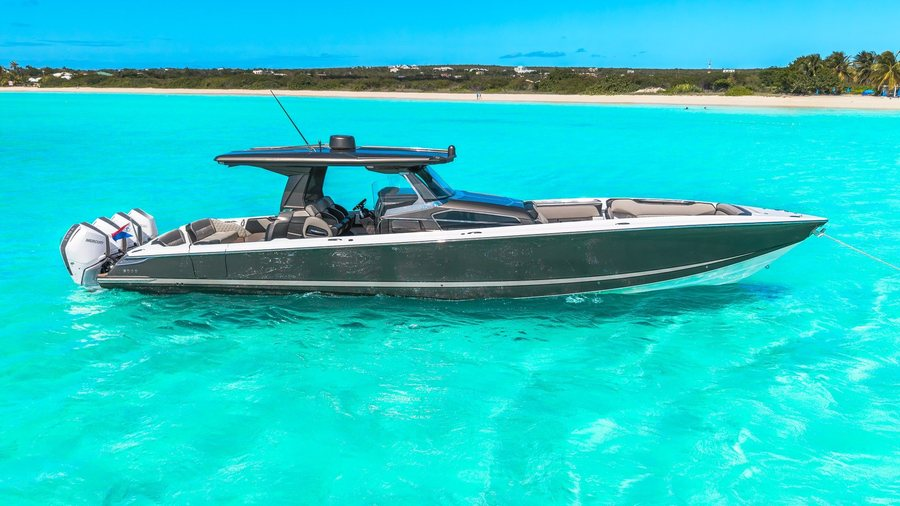
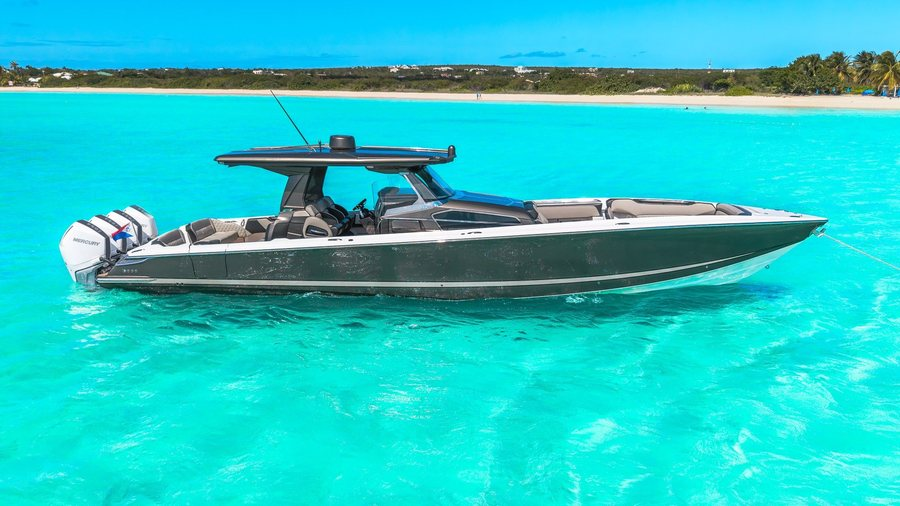
Photo: straighten engines on aerial beach shot
Claude-Session: https://claude.ai/code/session_01N21G8XvmqeBzuPMLBHiHf8

Changed region(s): [[0.0622, 0.3854, 0.1867, 0.5929]]

diff --git a/public/index.html b/public/index.html
@@ -701,7 +701,7 @@ footer .small{grid-column:1/-1;border-top:1px solid var(--hull-line);padding-top
 <!-- HOME -->
 <div class="view" data-view="home">
   <div class="hero">
-    <img src="img/hero-true.jpg?v=1793680478" alt="Nor-Tech 450 Sport SARE" fetchpriority="high">
+    <img src="img/hero-true.jpg?v=1793680702" alt="Nor-Tech 450 Sport SARE" fetchpriority="high">
     <div class="wrap inner">
       <div class="eyebrow hero-eb" data-t="home.eyebrow"></div>
       <h1 class="tag" data-t="home.tagline"></h1>
@@ -717,13 +717,13 @@ footer .small{grid-column:1/-1;border-top:1px solid var(--hull-line);padding-top
   </section>
   <section style="padding-top:0">
     <div class="wrap trio">
-      <a class="tile" href="#charter"><div class="ph"><img src="img/p-bow-view-s.jpg?v=1793680478" alt="" loading="lazy"></div><div class="eyebrow">01</div><h3 data-t="home.s1Title"></h3><p data-t="home.s1Text"></p><span class="more" data-t="common.discover"></span></a>
-      <a class="tile" href="#tender"><div class="ph"><img src="img/p-profile-wide-s.jpg?v=1793680478" alt="" loading="lazy"></div><div class="eyebrow">02</div><h3 data-t="home.s2Title"></h3><p data-t="home.s2Text"></p><span class="more" data-t="common.discover"></span></a>
-      <a class="tile" href="#voyages"><div class="ph"><img src="img/aft-deck-s.jpg?v=1793680478" alt="" loading="lazy"></div><div class="eyebrow">03</div><h3 data-t="home.s3Title"></h3><p data-t="home.s3Text"></p><span class="more" data-t="common.discover"></span></a>
+      <a class="tile" href="#charter"><div class="ph"><img src="img/p-bow-view-s.jpg?v=1793680702" alt="" loading="lazy"></div><div class="eyebrow">01</div><h3 data-t="home.s1Title"></h3><p data-t="home.s1Text"></p><span class="more" data-t="common.discover"></span></a>
+      <a class="tile" href="#tender"><div class="ph"><img src="img/p-profile-wide-s.jpg?v=1793680702" alt="" loading="lazy"></div><div class="eyebrow">02</div><h3 data-t="home.s2Title"></h3><p data-t="home.s2Text"></p><span class="more" data-t="common.discover"></span></a>
+      <a class="tile" href="#voyages"><div class="ph"><img src="img/aft-deck-s.jpg?v=1793680702" alt="" loading="lazy"></div><div class="eyebrow">03</div><h3 data-t="home.s3Title"></h3><p data-t="home.s3Text"></p><span class="more" data-t="common.discover"></span></a>
     </div>
   </section>
   <div class="feature">
-    <div class="ph"><img src="img/p-helm.jpg?v=1793680478" alt="" loading="lazy"></div>
+    <div class="ph"><img src="img/p-helm.jpg?v=1793680702" alt="" loading="lazy"></div>
     <div class="tx"><div class="eyebrow" data-t="nav.crew"></div><h2 data-t="home.crewTitle"></h2><p class="lead" data-t="home.crewText"></p><div><a class="cta line" href="#crew" data-t="home.crewCta"></a></div></div>
   </div>
   <section id="explorer">
@@ -768,7 +768,7 @@ footer .small{grid-column:1/-1;border-top:1px solid var(--hull-line);padding-top
 
 <!-- CHARTER -->
 <div class="view" data-view="charter" hidden>
-  <figure class="page-hero" style="--ar:16/9"><img src="img/p-bow-view.jpg?v=1793680478" alt="" style="object-position:50% 70%"><figcaption class="wrap"><div class="eyebrow" data-t="charter.eyebrow"></div><h1 data-t="charter.title"></h1></figcaption></figure>
+  <figure class="page-hero" style="--ar:16/9"><img src="img/p-bow-view.jpg?v=1793680702" alt="" style="object-position:50% 70%"><figcaption class="wrap"><div class="eyebrow" data-t="charter.eyebrow"></div><h1 data-t="charter.title"></h1></figcaption></figure>
   <nav class="subnav" data-for="charter" aria-label="Sections"></nav>
   <section data-sec="0">
     <div class="wrap">
@@ -803,7 +803,7 @@ footer .small{grid-column:1/-1;border-top:1px solid var(--hull-line);padding-top
 
 <!-- TENDER -->
 <div class="view" data-view="tender" hidden>
-  <figure class="page-hero top" style="--ar:3/2"><img src="img/p-profile-wide.jpg?v=1793680478" alt=""><figcaption class="wrap"><div class="eyebrow" data-t="tender.eyebrow"></div><h1 data-t="tender.title"></h1></figcaption></figure>
+  <figure class="page-hero top" style="--ar:3/2"><img src="img/p-profile-wide.jpg?v=1793680702" alt=""><figcaption class="wrap"><div class="eyebrow" data-t="tender.eyebrow"></div><h1 data-t="tender.title"></h1></figcaption></figure>
   <nav class="subnav" data-for="tender" aria-label="Sections"></nav>
   <div class="hullband">
     <section data-sec="0">
@@ -831,7 +831,7 @@ footer .small{grid-column:1/-1;border-top:1px solid var(--hull-line);padding-top
   </div>
   <div class="feature" data-sec="3" style="background:var(--paper)">
     <div class="tx"><div class="eyebrow" data-t="tender.eyebrow"></div><h2 data-t="tender.whyTitle"></h2><div class="why" id="why" style="grid-template-columns:1fr 1fr"></div></div>
-    <div class="ph"><img src="img/p-aft-from-helm.jpg?v=1793680478" alt="" loading="lazy"></div>
+    <div class="ph"><img src="img/p-aft-from-helm.jpg?v=1793680702" alt="" loading="lazy"></div>
   </div>
   <div class="hullband">
     <section data-sec="4">
@@ -878,7 +878,7 @@ footer .small{grid-column:1/-1;border-top:1px solid var(--hull-line);padding-top
 
 <!-- VOYAGES -->
 <div class="view" data-view="voyages" hidden>
-  <figure class="page-hero" style="--ar:16/9"><img src="img/p-top-down.jpg?v=1793680478" alt=""><figcaption class="wrap"><div class="eyebrow" data-t="voyages.eyebrow"></div><h1 data-t="voyages.title"></h1></figcaption></figure>
+  <figure class="page-hero" style="--ar:16/9"><img src="img/p-top-down.jpg?v=1793680702" alt=""><figcaption class="wrap"><div class="eyebrow" data-t="voyages.eyebrow"></div><h1 data-t="voyages.title"></h1></figcaption></figure>
   <nav class="subnav" data-for="voyages" aria-label="Sections"></nav>
   <section data-sec="0">
     <div class="wrap">
@@ -933,7 +933,7 @@ footer .small{grid-column:1/-1;border-top:1px solid var(--hull-line);padding-top
   <nav class="subnav" data-for="crew" aria-label="Sections"></nav>
   <section data-sec="0" style="padding-top:56px">
     <div class="wrap captain">
-      <div class="ph"><img src="img/p-helm-seats.jpg?v=1793680478" alt="" loading="lazy"></div>
+      <div class="ph"><img src="img/p-helm-seats.jpg?v=1793680702" alt="" loading="lazy"></div>
       <div>
         <p class="statement" style="font-size:clamp(20px,2.13vw,28px)" data-t="crew.intro"></p>
         <h2 style="font-size:clamp(25px,2.79vw,36px);margin-top:48px" data-t="crew.captainTitle"></h2>
@@ -965,7 +965,7 @@ footer .small{grid-column:1/-1;border-top:1px solid var(--hull-line);padding-top
   <div class="page-head wrap"><div class="eyebrow" data-t="faq.eyebrow"></div><h1 data-t="faq.title"></h1></div>
   <section style="padding-top:24px">
     <div class="wrap faq-wrap">
-      <div><figure class="faq-ph"><img src="img/p-bow-lounge-s.jpg?v=1793680478" alt="" loading="lazy"></figure></div>
+      <div><figure class="faq-ph"><img src="img/p-bow-lounge-s.jpg?v=1793680702" alt="" loading="lazy"></figure></div>
       <div class="faq" id="faqAll"></div>
     </div>
     <div class="wrap"><p class="legal" style="margin-top:56px" data-t="clearance.legal"></p></div>
@@ -1147,7 +1147,7 @@ function renderWayfinding(){
   });
   document.querySelectorAll(".nextch").forEach(n=>n.remove());
   ORDER.forEach((v,i)=>{if(v==="home"||v==="book")return;const nx=ORDER[i+1];const host=document.querySelector(`[data-view="${v}"]`);if(!host||!nx)return;
-    host.append(el("a",{class:"nextch",href:"#"+nx},el("div",{class:"ph"},el("img",{src:`img/${NEXT_IMG[nx]}-s.jpg?v=1793680478`,alt:"",loading:"lazy"})),el("div",{class:"tx"},el("div",{class:"eyebrow"},t("ui.next")),el("h2",{},t("ui.chapters."+nx)),el("span",{class:"arrow"},t("common.discover")+" →"))))});
+    host.append(el("a",{class:"nextch",href:"#"+nx},el("div",{class:"ph"},el("img",{src:`img/${NEXT_IMG[nx]}-s.jpg?v=1793680702`,alt:"",loading:"lazy"})),el("div",{class:"tx"},el("div",{class:"eyebrow"},t("ui.next")),el("h2",{},t("ui.chapters."+nx)),el("span",{class:"arrow"},t("common.discover")+" →"))))});
   const mk=(box,items)=>{if(!box)return;box.innerHTML="";items.forEach(([q,a],i)=>box.append(el("details",{open:i===0?true:null},el("summary",{},q),el("p",{},a))))};
   mk($("#faqShort"),t("faq.items").slice(0,4));mk($("#faqAll"),t("faq.items"));
   watchSections();
@@ -1189,7 +1189,7 @@ const AR={"profile-run":2.053,"front-run":1.335,"p-top-down":1.7778,"p-aerial-st
 function renderYacht(){
   const g=$("#gallery");g.innerHTML="";
   const ROWS=[["profile-run","front-run"],["p-profile-wide","p-stern-beach"],["p-anchor-beach","p-stern-portrait","p-portrait-beach"],["p-top-down","p-aerial-stern"],["p-aerial-beach","p-aerial-quarter","p-aerial-bow"],["p-bow-lounge","p-aft-from-helm","p-cockpit"],["bow-lounge","p-helm-from-bow"],["aft-deck","aft-bench"],["p-helm","p-helm-seats"],["p-engines","p-bow-view"]];
-  ROWS.forEach((row,ri)=>{const r=el("div",{class:"grow"});row.forEach(k=>{const i=PHOTOS.indexOf(k);const b=el("button",{"aria-label":t("yacht.captions."+k),onclick:()=>openLB(i)},el("img",{src:`img/${k}${ri<2?"":"-s"}.jpg?v=1793680478`,alt:t("yacht.captions."+k),loading:ri<1?null:"lazy"}));b.style.setProperty("--ar",AR[k]||1.5);r.append(b)});g.append(r)});
+  ROWS.forEach((row,ri)=>{const r=el("div",{class:"grow"});row.forEach(k=>{const i=PHOTOS.indexOf(k);const b=el("button",{"aria-label":t("yacht.captions."+k),onclick:()=>openLB(i)},el("img",{src:`img/${k}${ri<2?"":"-s"}.jpg?v=1793680702`,alt:t("yacht.captions."+k),loading:ri<1?null:"lazy"}));b.style.setProperty("--ar",AR[k]||1.5);r.append(b)});g.append(r)});
   const s=$("#specs");s.innerHTML="";
   t("yacht.specs").forEach(([k,v,u])=>s.append(el("div",{class:"spec"},el("div",{class:"k"},k),el("div",{class:"v"},v),el("div",{class:"u"},u))));
   const p=$("#pillars");p.innerHTML="";t("yacht.pillars").forEach(([h,x])=>p.append(el("div",{},el("h3",{},h),el("p",{},x))));
@@ -1197,7 +1197,7 @@ function renderYacht(){
 }
 let lbi=0;const lb=$("#lightbox");
 function openLB(i){lbi=i;drawLB();lb.hidden=false;document.body.style.overflow="hidden";lb.querySelector(".x").focus()}
-function drawLB(){const k=PHOTOS[lbi];lb.innerHTML="";lb.append(el("img",{src:`img/${k}.jpg?v=1793680478`,alt:t("yacht.captions."+k)}),el("div",{class:"cap"},t("yacht.captions."+k)),
+function drawLB(){const k=PHOTOS[lbi];lb.innerHTML="";lb.append(el("img",{src:`img/${k}.jpg?v=1793680702`,alt:t("yacht.captions."+k)}),el("div",{class:"cap"},t("yacht.captions."+k)),
   el("button",{class:"x",onclick:closeLB},t("nav.close")+" ×"),el("button",{class:"p",onclick:()=>{lbi=(lbi+PHOTOS.length-1)%PHOTOS.length;drawLB()}},"←"),el("button",{class:"n",onclick:()=>{lbi=(lbi+1)%PHOTOS.length;drawLB()}},"→"))}
 function closeLB(){lb.hidden=true;document.body.style.overflow=""}
 document.addEventListener("keydown",e=>{if(lb.hidden)return;if(e.key==="Escape")closeLB();if(e.key==="ArrowRight"){lbi=(lbi+1)%PHOTOS.length;drawLB()}if(e.key==="ArrowLeft"){lbi=(lbi+PHOTOS.length-1)%PHOTOS.length;drawLB()}});
@@ -1401,8 +1401,8 @@ const XGEO=GEO.region;
 const XGROUPS={home:["stmartin","stbarth","anguilla"],leeward:["saba","statia","stkitts","antigua","montserrat","guadeloupe"],windward:["dominica","martinique","stlucia","grenadines","grenada","barbados"],virgin:["bvi","usvi","puertorico"],north:["turks","bahamas"]};
 const XVOY={saba:"north",statia:"north",stkitts:"north",bvi:"virgin",usvi:"virgin",puertorico:"virgin",antigua:"antigua",montserrat:"antigua",guadeloupe:"south",dominica:"south",martinique:"south",stlucia:"south",grenadines:"south",grenada:"south",barbados:"south",bahamas:"bahamas",turks:"bahamas"};
 const XGUIDE={stmartin:"stmartin",stbarth:"stbarth",anguilla:"anguilla"};
-/* Island photos: add "key":"img/file.jpg?v=1793680478" as photos arrive */
-const XPHOTO={anguilla:"img/p-stern-beach-s.jpg?v=1793680478"};
+/* Island photos: add "key":"img/file.jpg?v=1793680702" as photos arrive */
+const XPHOTO={anguilla:"img/p-stern-beach-s.jpg?v=1793680702"};
 const XMINOR=new Set(["stbarth","anguilla","saba","statia","montserrat","usvi","grenada","barbados"]);
 const XLEFT=new Set(["stmartin","stbarth","saba","statia","montserrat","usvi","puertorico"]);
 const XSHORT={bvi:"BVI",usvi:"USVI"};
